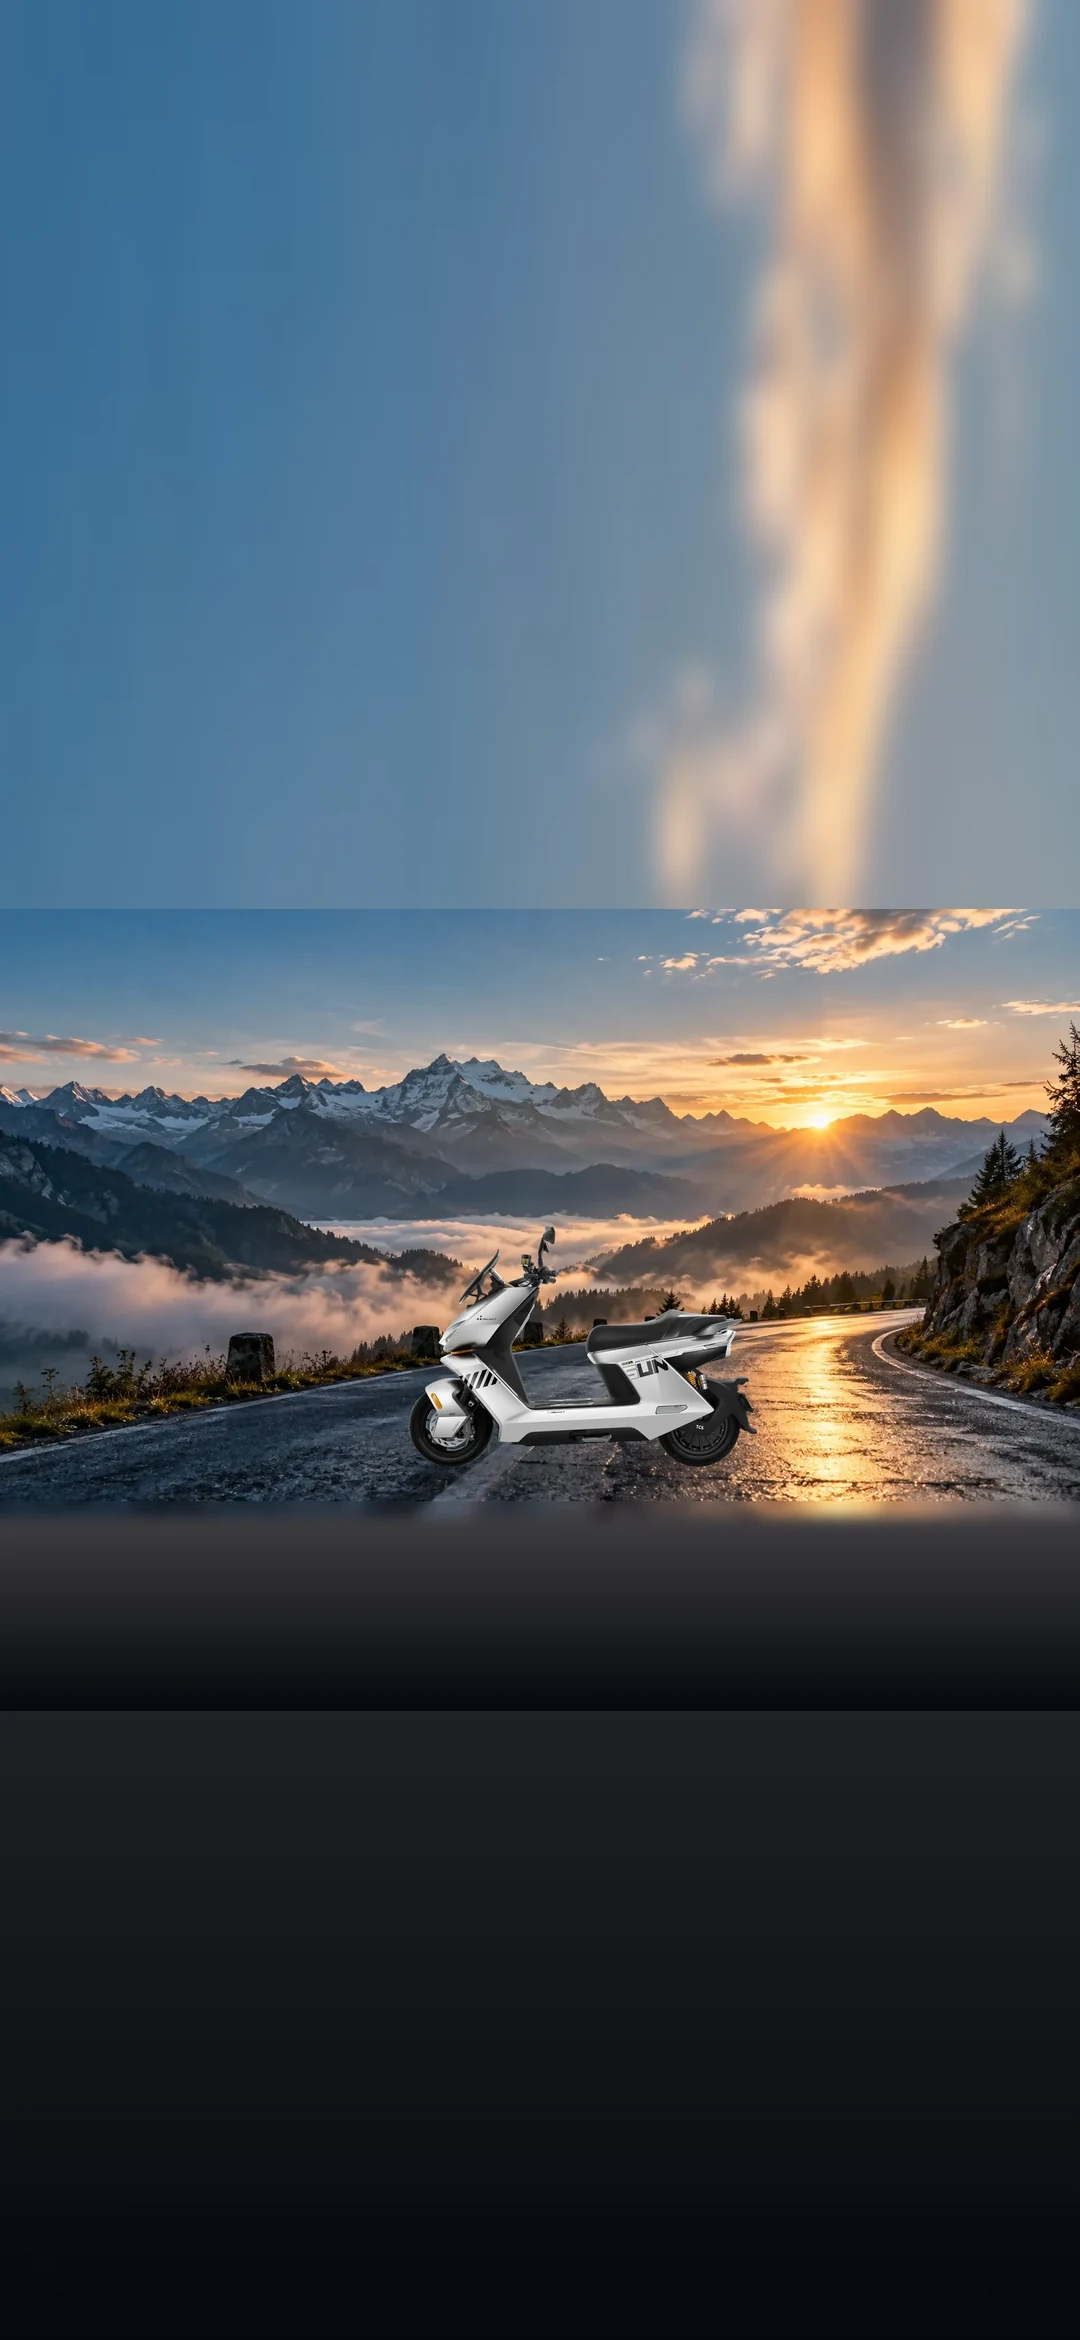
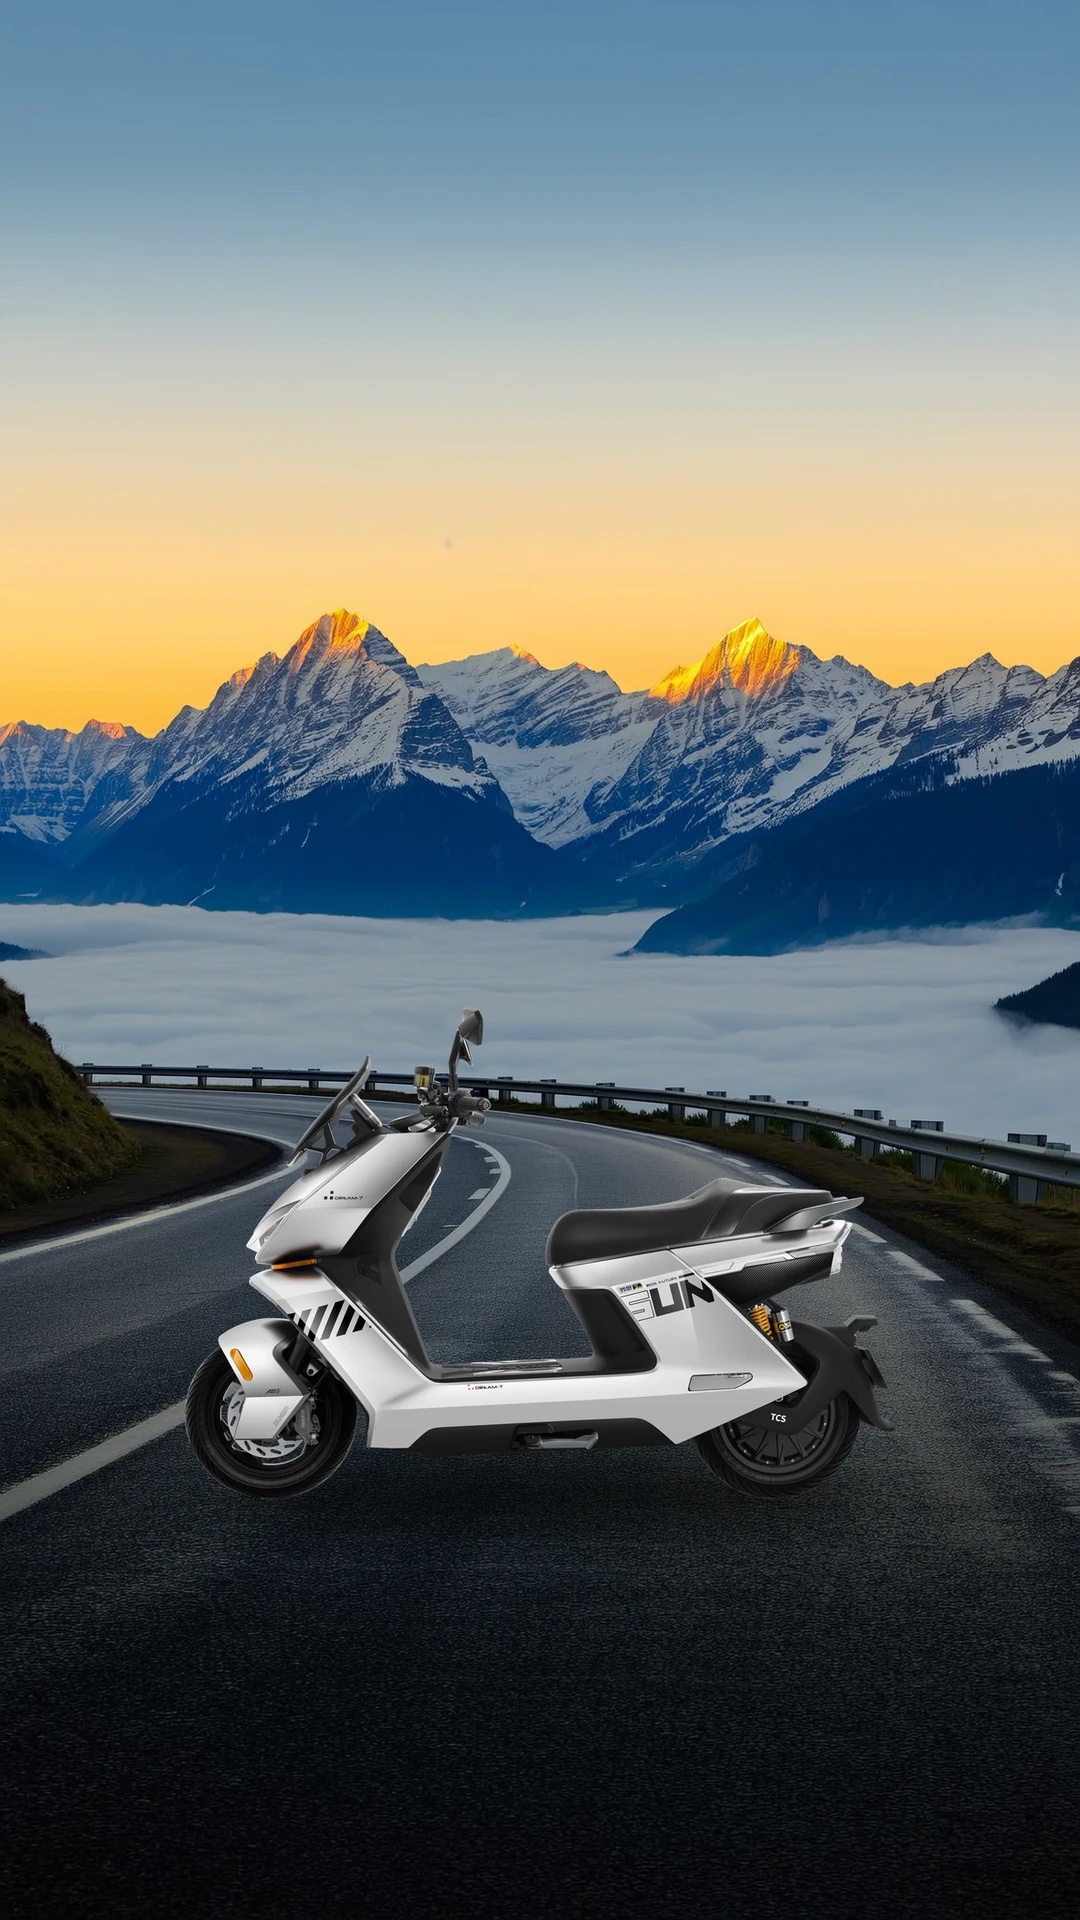
Mobile carousel: true vertical Dream 7 composites on alpine road (no filler bands, centered); gentle mobile intro zoom
Claude-Session: https://claude.ai/code/session_014zrVULci17y5WkLSkBd2xf

diff --git a/index.html b/index.html
@@ -60,6 +60,7 @@ a{color:inherit;text-decoration:none}
 @media(prefers-reduced-motion:reduce){.cine::before{animation:none}}
 .stage{position:absolute;inset:0;display:flex;align-items:center;justify-content:center;z-index:1;transform-origin:50% 60%;animation:introzoom 15s ease-out both}
 @keyframes introzoom{from{transform:scale(1)}to{transform:scale(1.16)}}
+@keyframes introzoomM{from{transform:scale(1.01)}to{transform:scale(1.06)}}
 @media(prefers-reduced-motion:reduce){.stage{animation:none}}
 .shot{position:absolute;inset:0;width:100%;height:100%;object-fit:cover;opacity:0;transition:opacity 1.1s ease;filter:none}
 .shot.on{opacity:1}
@@ -94,6 +95,7 @@ a{color:inherit;text-decoration:none}
 .final .tagline{text-shadow:0 1px 10px rgba(0,0,0,.75)}
 @media(max-width:720px){
   .groundimg{background-image:url('assets-v2/hero/end_m.webp')}
+  .stage{transform-origin:50% 55%;animation-name:introzoomM}
   .cine.ended .fhead{top:9vh;max-width:92vw}
   .cine.ended .final h1{font-size:clamp(24px,6.4vw,34px)}
   .cine.ended .fcta .cta{flex-wrap:nowrap;gap:8px;justify-content:center}

diff --git a/index2.html b/index2.html
@@ -60,6 +60,7 @@ a{color:inherit;text-decoration:none}
 @media(prefers-reduced-motion:reduce){.cine::before{animation:none}}
 .stage{position:absolute;inset:0;display:flex;align-items:center;justify-content:center;z-index:1;transform-origin:50% 60%;animation:introzoom 15s ease-out both}
 @keyframes introzoom{from{transform:scale(1)}to{transform:scale(1.16)}}
+@keyframes introzoomM{from{transform:scale(1.01)}to{transform:scale(1.06)}}
 @media(prefers-reduced-motion:reduce){.stage{animation:none}}
 .shot{position:absolute;inset:0;width:100%;height:100%;object-fit:cover;opacity:0;transition:opacity 1.1s ease;filter:none}
 .shot.on{opacity:1}
@@ -94,6 +95,7 @@ a{color:inherit;text-decoration:none}
 .final .tagline{text-shadow:0 1px 10px rgba(0,0,0,.75)}
 @media(max-width:720px){
   .groundimg{background-image:url('assets-v2/hero/end_m.webp')}
+  .stage{transform-origin:50% 55%;animation-name:introzoomM}
   .cine.ended .fhead{top:9vh;max-width:92vw}
   .cine.ended .final h1{font-size:clamp(24px,6.4vw,34px)}
   .cine.ended .fcta .cta{flex-wrap:nowrap;gap:8px;justify-content:center}
